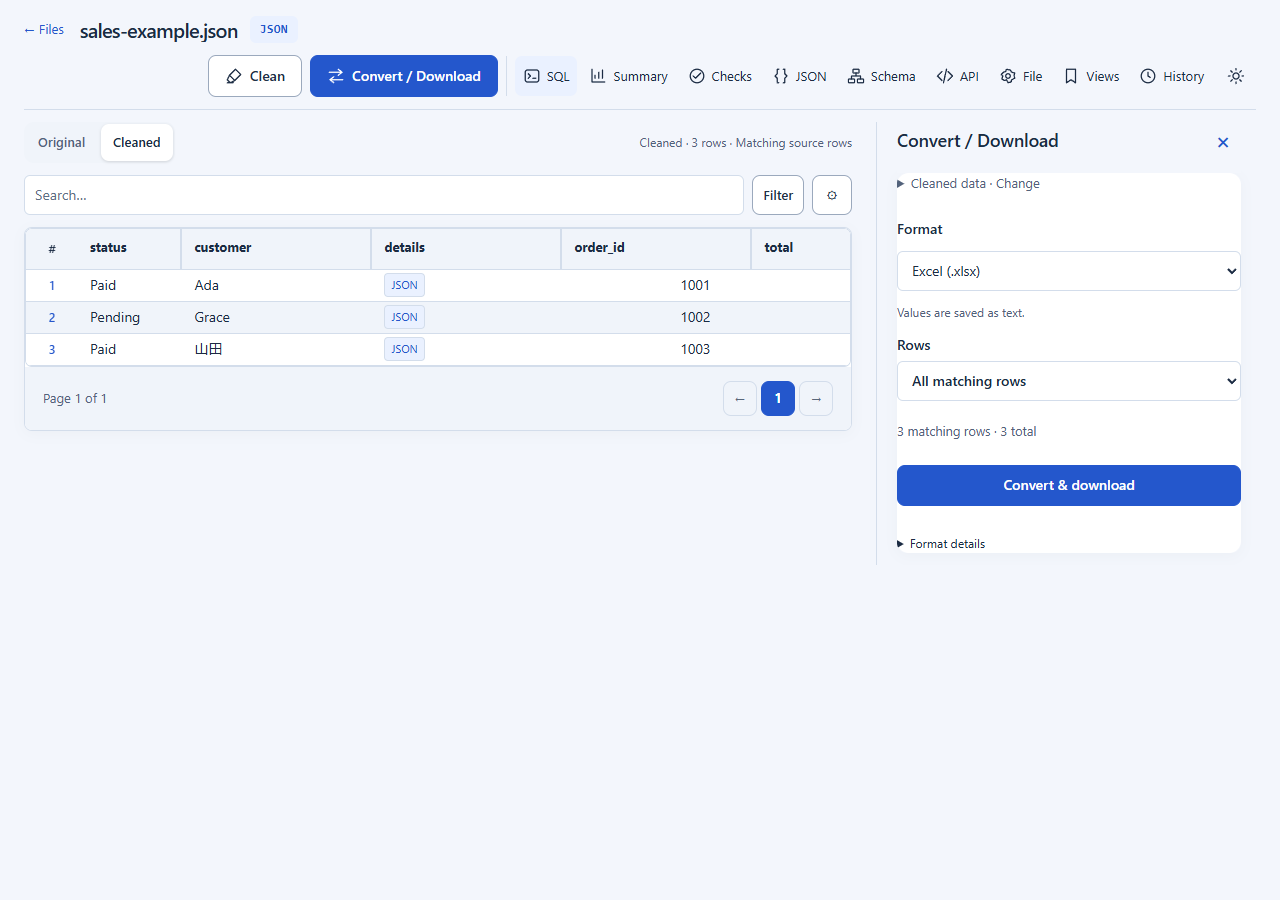
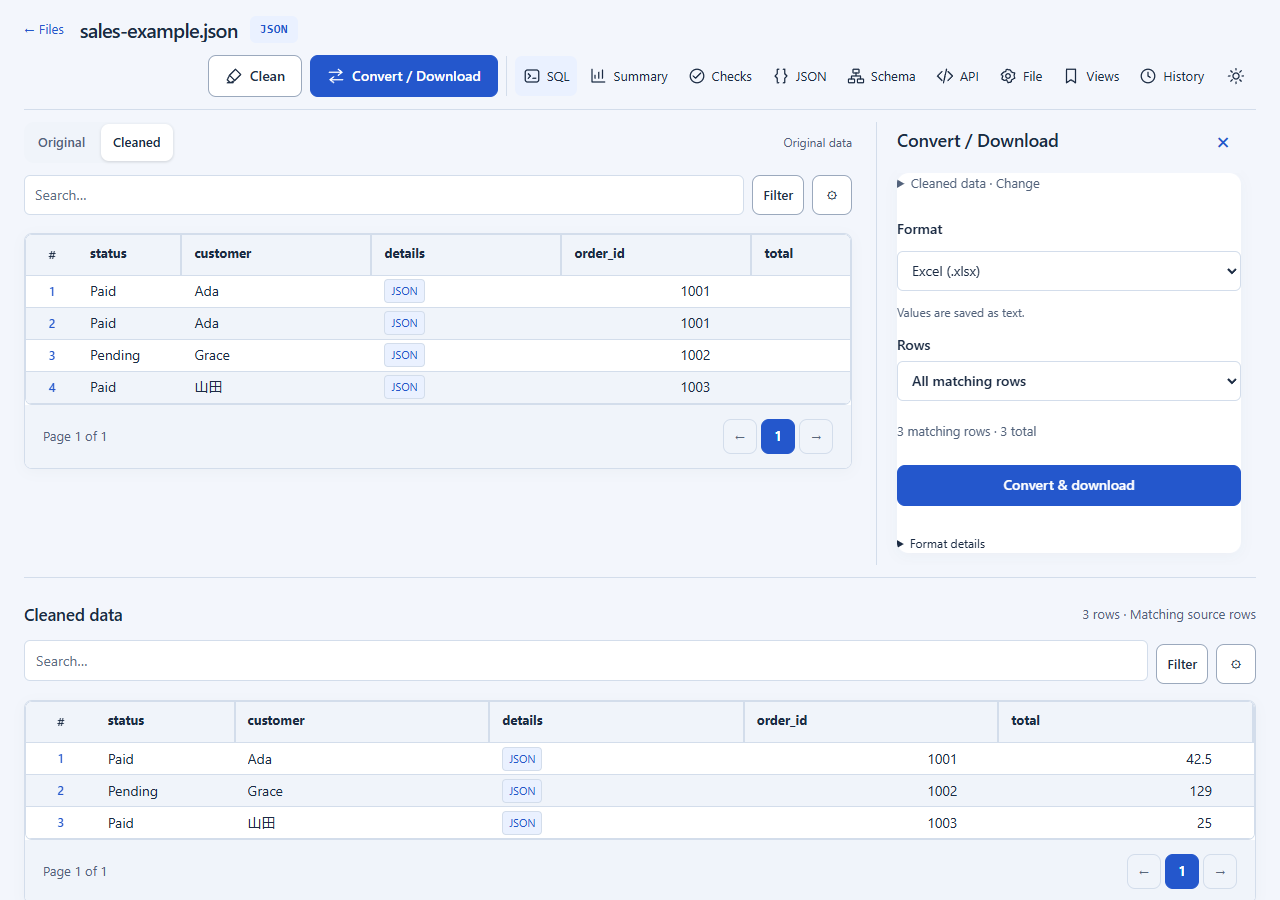
Keep controls in sidebar and show full-width results below original data

diff --git a/ui/static/js/file-workspace.js b/ui/static/js/file-workspace.js
@@ -46,15 +46,15 @@
   finally{preparingRefresh=false;if(prepareAgain){prepareAgain=false;queueMicrotask(refreshPrepared);}}
  }
 
+ const sqlResult=document.getElementById('workspace-sql-result');
  const result=document.getElementById('workspace-result'),caption=document.getElementById('workspace-data-caption');
  let exportChoice,downloadIntent=null;const downloaded=new Set();
  function showData(view){
   if(view==='result'&&!result.firstElementChild)view='original';workspace.dataset.dataView=view;
-  document.getElementById('detail-content').hidden=view==='result';result.hidden=view!=='result';
+  document.getElementById('detail-content').hidden=false;result.hidden=view!=='result';
+  sqlResult.hidden=active!=='sql'||!sqlResult.firstElementChild;
   workspace.querySelectorAll('[data-workspace-view]').forEach(button=>button.setAttribute('aria-pressed',String(button.dataset.workspaceView===view)));
-  const total=result.querySelector('[data-cleaned-total]')?.dataset.cleanedTotal;
-  const scope=result.querySelector('[data-cleaned-scope]')?.dataset.cleanedScope;
-  caption.textContent=view==='result'?(total!==undefined?'Cleaned · '+total+' rows · '+(scope==='entire'?'Entire source':'Matching source rows'):'Quick sample · '+(result.querySelector('[data-preview-count]')?.dataset.previewCount||0)+' rows'):'Original data';
+  caption.textContent='Original data';
   rememberWorkspace();document.dispatchEvent(new CustomEvent('fluxport:data-mounted'));
  }
  function cleanDraft(){
@@ -162,7 +162,10 @@
   host.replaceChildren(entry.node);message('');
   if(active==='clean')syncClean(entry.node);
   if(active==='export')syncExport();
-  if(active==='sql')restoreSQL(entry.node);
+  if(active==='sql'){
+   restoreSQL(entry.node);sqlResult.replaceChildren(...(entry.node.workspaceSQLResult?[entry.node.workspaceSQLResult]:[]));sqlResult.hidden=!sqlResult.firstElementChild;
+   if(sqlResult.firstElementChild){workspace.querySelector('.workspace-data-heading').hidden=false;caption.textContent='Original data';}
+  }else sqlResult.hidden=true;
   window.htmx?.process(entry.node);
   document.dispatchEvent(new CustomEvent('fluxport:tool-mounted',{detail:{tool:active}}));
   updateFormats();deliverDownload();renderDownload();refreshDownload();
@@ -188,6 +191,7 @@
    for(const attr of [...el.attributes])if(attr.name.startsWith('hx-'))el.removeAttribute(attr.name);
   });
   const detail=node.querySelector('#detail-content');if(detail)detail.id='tool-detail-content';
+  const queryResult=node.querySelector('[data-sql-results]');if(queryResult){node.workspaceSQLResult=queryResult;queryResult.remove();}
   const cleanup=node.querySelector('[data-cleanup-form]');
   if(cleanup){
    const reuse=node.querySelector('.reuse-steps');reuse?.remove();
@@ -230,7 +234,7 @@
    const resultKey=toolFor(new URL(response.url))||key;
    const result={node,url:response.url,request:entry.request};cache.set(resultKey,result);
    if(resultKey==='export'&&active!==key){const status=node.querySelector('#collection-download-status');deliverDownload(status);renderDownload(status);refreshDownload();}
-   if(active===key){select(resultKey);mount(result);if(!response.ok)message('Check the highlighted error and try again.',true);else if(options.method==='POST'&&resultKey==='clean'&&result.node.workspacePreview&&matchMedia('(max-width:1000px)').matches)document.getElementById('workspace-result').scrollIntoView({block:'start',behavior:'smooth'});}
+   if(active===key){select(resultKey);mount(result);if(!response.ok)message('Check the highlighted error and try again.',true);else if(options.method==='POST'&&((resultKey==='clean'&&result.node.workspacePreview)||(resultKey==='sql'&&result.node.workspaceSQLResult)))(resultKey==='sql'?sqlResult:document.getElementById('workspace-result')).scrollIntoView({block:'start',behavior:'smooth'});}
   }catch(error){if(active===key){message(error.message||'Unable to load this tool. Try again.',true);const retry=document.createElement('button');retry.type='button';retry.className='button small';retry.textContent='Try again';retry.addEventListener('click',()=>load(key,url,options));notice.append(' ',retry);}}
   finally{pane.removeAttribute('aria-busy');}
  }
@@ -256,7 +260,7 @@
   if(event.button!==0||event.ctrlKey||event.metaKey||event.shiftKey||event.altKey)return;
   const link=event.target.closest('a');
   if(event.target.closest('[data-workspace-edit-clean]')){open('clean',routes.clean,event.target);return;}
-  const view=event.target.closest('[data-workspace-view]');if(view){showData(view.dataset.workspaceView);return;}
+  const view=event.target.closest('[data-workspace-view]');if(view){showData(view.dataset.workspaceView);(view.dataset.workspaceView==='result'?result:document.getElementById('detail-content')).scrollIntoView({block:'start',behavior:'smooth'});return;}
   if(event.target.closest('[data-workspace-download-clean]')){showData('result');open('export',routes.export,event.target);return;}
   if(event.target.closest('[data-close-workspace-tool]')){close();return;}
   if(event.target.closest('[data-refresh-prepared],[data-browse-prepared]')){event.preventDefault();refreshPrepared();return;}

diff --git a/ui/templates/pages/detail.html b/ui/templates/pages/detail.html
@@ -7,7 +7,7 @@
 {{if and (eq .Tab "preview") (ne .Collection.Status "ready")}}<p class="notice">The file is being processed. <a href="/collections/{{.Collection.ID}}/export?original=1">Download the original</a>. Other formats will be available when processing finishes.</p>{{end}}
 {{if eq .Tab "preview"}}<div class="file-workspace-grid"><section class="file-workspace-data" aria-label="Data table"><div class="workspace-data-heading" hidden><div class="workspace-view-switch" role="group" aria-label="Data shown in the table"><button type="button" class="button small" data-workspace-view="original" aria-pressed="true">Original</button><button type="button" class="button small" data-workspace-view="result" aria-pressed="false" hidden>Cleaned</button></div><span class="muted small-text" id="workspace-data-caption"></span></div>{{end}}
 {{if eq .Tab "downloads"}}<section class="panel dataset-downloads"><h2>Convert / Download</h2><details id="download" class="download-control download-inline" open><summary class="sr-only">Download options</summary>{{template "partials/download-chooser" .}}</details></section>{{else}}<div id="detail-content" class="dataset-content {{if ne .Tab "preview"}}panel{{end}}">{{template "partials/detail" .}}</div>{{end}}
-{{if eq .Tab "preview"}}<section id="workspace-result" aria-label="Cleanup result" hidden></section></section><aside class="file-workspace-tool" id="file-workspace-tool" aria-labelledby="workspace-tool-title" hidden><div class="workspace-tool-heading"><div><h2 id="workspace-tool-title" tabindex="-1">Tools</h2></div><button class="button small ghost" type="button" data-close-workspace-tool aria-label="Close tool and return to data">×</button></div><div id="workspace-tool-notice" role="status" aria-live="polite"></div><div id="workspace-tool-content"></div></aside></div>{{end}}
+{{if eq .Tab "preview"}}</section><aside class="file-workspace-tool" id="file-workspace-tool" aria-labelledby="workspace-tool-title" hidden><div class="workspace-tool-heading"><div><h2 id="workspace-tool-title" tabindex="-1">Tools</h2></div><button class="button small ghost" type="button" data-close-workspace-tool aria-label="Close tool and return to data">×</button></div><div id="workspace-tool-notice" role="status" aria-live="polite"></div><div id="workspace-tool-content"></div></aside></div><section id="workspace-result" class="workspace-output" aria-label="Cleanup result" hidden></section><section id="workspace-sql-result" class="workspace-output" aria-label="Query results" hidden></section>{{end}}
 <details class="panel collection-tools tools-disclosure" id="file-settings"><summary>File settings</summary><div class="panel-toolbar"><form method="post" action="/collections/{{.Collection.ID}}/rename" class="inline-form"><input type="hidden" name="csrf" value="{{.CSRF}}"><label for="display-name">Display name</label><input id="display-name" name="name" value="{{.Collection.Name}}" maxlength="120" required><button class="button small">Rename</button></form><form method="post" action="/collections/{{.Collection.ID}}/refresh" hx-post="/collections/{{.Collection.ID}}/refresh" hx-target="#job-activity"><input type="hidden" name="csrf" value="{{.CSRF}}"><button class="button small">Refresh / retry</button></form></div><details><summary>Source details</summary><p class="muted small-text">Filename: {{.Collection.Filename}}</p><p class="muted small-text">Updated: {{.Collection.Updated}}</p></details>
 <form method="post" action="/collections/{{.Collection.ID}}/delete" class="delete-source"><input type="hidden" name="csrf" value="{{.CSRF}}"><label class="checkbox-setting"><input type="checkbox" name="confirm" value="delete" required><span>Permanently delete this source file. This cannot be undone.</span></label><button class="button danger">Delete source file</button></form></details>
 <details class="panel activity-panel tools-disclosure" id="activity"><summary>Processing history</summary><div id="job-activity" hx-get="/jobs?collection={{.Collection.ID}}" hx-trigger="load"></div></details>

diff --git a/ui/templates/pages/sql.html b/ui/templates/pages/sql.html
@@ -8,7 +8,7 @@
 <details><summary>Highlighted query preview</summary><pre id="sql-highlight" class="code-block" aria-label="SQL syntax preview"></pre></details>
 <details><summary>Save or publish this query</summary><div class="inline-form"><label>Name<input name="name" maxlength="100" value="{{.SQL.Name}}" placeholder="For example: Revenue by customer"></label><label class="checkbox-setting"><input type="checkbox" name="published" {{if .SQL.Published}}checked{{end}}> Publish a REST endpoint</label><button class="button" name="action" value="save">Save query</button></div></details>
 </form><details class="quality-notes"><summary>Query limits and engine behavior</summary><p class="muted small-text">Only SELECT and WITH are allowed. Queries use a {{.SQL.DuckDBTimeoutSeconds}}-second DuckDB timeout, a 1,000-row preview and an 8 MiB result limit. Automatic mode selects DuckDB for joins, filters, sorts or aggregates over collections with 250,000+ records; simple queries stay native. First use builds a disk-backed cache. DuckDB spills within the configured memory and temporary storage limits. Use _json for original normalized values. Exports require a complete result.</p></details></section>
-{{if .SQL.Result}}<section class="panel sql-panel"><div class="section-caption"><h2>Results</h2><span>{{.SQL.Result.Engine}} · {{len .SQL.Result.Rows}} rows · {{.SQL.Result.DurationMS}} ms{{if .SQL.Result.Truncated}} · truncated at 1,000{{end}}</span></div><div class="table-scroll record-scroll"><table><thead><tr>{{range .SQL.Result.Columns}}<th>{{.}}</th>{{end}}</tr></thead><tbody>{{range .SQL.Result.Rows}}<tr>{{range .}}<td>{{.}}</td>{{end}}</tr>{{else}}<tr><td>No results.</td></tr>{{end}}</tbody></table></div></section>{{end}}
+{{if .SQL.Result}}<section class="panel sql-panel" data-sql-results><div class="section-caption"><h2>Results</h2><span>{{.SQL.Result.Engine}} · {{len .SQL.Result.Rows}} rows · {{.SQL.Result.DurationMS}} ms{{if .SQL.Result.Truncated}} · truncated at 1,000{{end}}</span></div><div class="table-scroll record-scroll"><table><thead><tr>{{range .SQL.Result.Columns}}<th>{{.}}</th>{{end}}</tr></thead><tbody>{{range .SQL.Result.Rows}}<tr>{{range .}}<td>{{.}}</td>{{end}}</tr>{{else}}<tr><td>No results.</td></tr>{{end}}</tbody></table></div><details class="sql-result-query"><summary>Query used</summary><pre class="code-block">{{.SQL.Text}}</pre></details></section>{{end}}
 <details class="panel sql-panel tools-disclosure"><summary>Table names and columns</summary><p class="muted">Use the table identifiers below. For nested objects, use json_extract(account, '$.region'). Quote identifiers that contain spaces or dots.</p>{{range .SQL.DatasetTables}}<details><summary>{{.Name}}</summary><code>{{.Table}}</code><p class="mono">{{range .Fields}}{{.}} · {{end}}</p></details>{{end}}</details>
 <details class="panel sql-panel tools-disclosure"><summary>Saved queries</summary>{{range .SQL.Saved}}<div class="panel-toolbar"><a href="{{if $.Collection.ID}}/collections/{{$.Collection.ID}}/sql{{else}}/sql{{end}}?saved={{.ID}}">{{.Name}}</a>{{if .Published}}<code>/api/queries/{{.ID}}</code>{{end}}<form method="post" action="/sql/{{.ID}}/delete"><input type="hidden" name="csrf" value="{{$.CSRF}}">{{if $.Collection.ID}}<input type="hidden" name="collection" value="{{$.Collection.ID}}">{{end}}<button class="button small danger">Delete</button></form></div>{{else}}<p class="muted">Save a query to reuse it or expose it through the API.</p>{{end}}</details>
 <details class="panel sql-panel tools-disclosure"><summary>Recent queries</summary>{{range .SQL.History}}<details><summary>{{.Created}} · {{.DurationMS}} ms{{if .Error}} · failed{{end}}</summary><pre class="code-block">{{.SQL}}</pre>{{if .Error}}<p class="notice error">{{.Error}}</p>{{end}}</details>{{else}}<p class="muted">Queries you run here appear in this history.</p>{{end}}</details>

diff --git a/scripts/file-workspace-checks.js b/scripts/file-workspace-checks.js
@@ -40,7 +40,9 @@ async (page, artifactDir) => {
   if(!aligned)throw Error('Cleanup inputs and action button are not aligned');
   if(!await pane.getByText('Trim spaces in name',{exact:true}).count())throw Error('Cleanup not retained');
   const preview=page.locator('#workspace-result');
-  if(await source.isVisible()||await preview.locator('tbody tr').count()!==20)throw Error('Cleanup must show one result sample table');
+  if(!await source.isVisible())throw Error('Cleanup hides the original table');
+  const sourceBox=await source.boundingBox(),resultBox=await preview.boundingBox(),workspaceBox=await page.locator('[data-file-workspace]').boundingBox();
+  if(resultBox.y<sourceBox.y+sourceBox.height||resultBox.width<workspaceBox.width-2)throw Error('Cleanup results must be full-width below the original table');
   await preview.locator('.sheet-data').waitFor();await preview.getByRole('button',{name:'Inspect JSON in nested',exact:true}).first().click();
   if(await preview.getByLabel('Complete record JSON',{exact:true}).inputValue()!=='{"enabled":true}')throw Error('Cleaned JSON inspector changed the value');
   await preview.getByRole('button',{name:'Close record',exact:true}).click();
@@ -58,8 +60,13 @@ async (page, artifactDir) => {
   await openMore();await page.locator('[data-workspace-target=sql]').click();
   const sql=pane.locator('#sql-editor');await sql.fill('SELECT COUNT(*) AS total FROM "c_'+id+'"');
   await pane.getByRole('button',{name:'Run query',exact:true}).click();
-  await pane.getByRole('heading',{name:'Results',exact:true}).waitFor();
-  await pane.getByRole('cell',{name:'60',exact:true}).waitFor();
+  const sqlResults=page.locator('#workspace-sql-result');
+  await sqlResults.getByRole('heading',{name:'Results',exact:true}).waitFor();
+  await sqlResults.getByRole('cell',{name:'60',exact:true}).waitFor();
+  if(await pane.locator('[data-sql-results]').count()||!await source.isVisible())throw Error('SQL results are inside the sidebar or hide the source');
+  const sqlBox=await sqlResults.boundingBox(),originalBox=await source.boundingBox(),fullBox=await page.locator('[data-file-workspace]').boundingBox();
+  if(sqlBox.y<originalBox.y+originalBox.height||sqlBox.width<fullBox.width-2)throw Error('SQL results must be full-width below the original table');
+  for(const width of [390,1440]){await page.setViewportSize({width,height:1000});if(await page.evaluate(()=>document.documentElement.scrollWidth>innerWidth+1))throw Error('SQL results overflow at '+width);const box=await sqlResults.boundingBox(),main=await page.locator('[data-file-workspace]').boundingBox();if(box.width<main.width-2)throw Error('SQL result table is narrow at '+width);}
   await sql.fill('SELECT id FROM "c_'+id+'" LIMIT 3');
   await page.locator('[data-workspace-target=clean]').click();
   await page.locator('#workspace-result:not([hidden]) tbody tr').first().waitFor();
@@ -73,6 +80,7 @@ async (page, artifactDir) => {
   await sql.fill('SELECT invalid_column FROM "c_'+id+'"');
   await pane.getByRole('button',{name:'Run query',exact:true}).click();
   await pane.getByRole('alert').waitFor();
+  if(await page.locator('#workspace-sql-result').isVisible())throw Error('Failed query still shows stale results');
   if(!(await sql.inputValue()).includes('invalid_column'))throw Error('SQL lost after error');
   await page.locator('[data-workspace-target=export]').click();await pane.locator('#collection-download-format').selectOption('json');
   const delayed='**/collections/'+id+'/export';await page.route(delayed,async route=>{const response=await route.fetch();await page.waitForTimeout(500);await route.fulfill({response});});

diff --git a/ui/static/js/workbench.js b/ui/static/js/workbench.js
@@ -1,7 +1,7 @@
 (() => {
  document.addEventListener('change',event=>{if(event.target.matches('[data-show-types]'))document.querySelector('[data-file-workspace]')?.classList.toggle('show-column-types',event.target.checked);});
   'use strict';
-	let dataListeners;
+	const dataListeners=new WeakMap();
 	function initialize(){
 	const sqlEditor=document.getElementById('sql-editor');
 	if(sqlEditor&&!sqlEditor.dataset.initialized){
@@ -14,11 +14,15 @@
 		sqlEditor.form.elements.name.addEventListener('input',()=>sqlEditor.form.elements.name.setCustomValidity(''));
 	}
   const workspace=document.querySelector('[data-file-workspace]');
-  const root=workspace?(workspace.dataset.dataView==='result'?document.getElementById('workspace-result'):document.getElementById('detail-content')):document;
+  const roots=workspace?[document.getElementById('detail-content'),document.getElementById('workspace-result')]:[document];
+  roots.forEach(initializeTable);
+ }
+ function initializeTable(root){
+  if(!root)return;
   const queryForm = root.querySelector('[data-sheet-query]');
   if (!queryForm||queryForm.dataset.initialized) return;
   queryForm.dataset.initialized='true';
-  dataListeners?.abort();dataListeners=new AbortController();
+  dataListeners.get(root)?.abort();const listeners=new AbortController();dataListeners.set(root,listeners);
   const filters = queryForm.querySelector('[data-filter-list]');
   const sorts = queryForm.querySelector('[data-sort-list]');
   const operators = [['eq','equals'],['neq','does not equal'],['contains','contains'],['starts','starts with'],['gt','greater than'],['gte','at least'],['lt','less than'],['lte','at most'],['null','missing / null'],['notnull','has a value']];
@@ -52,7 +56,7 @@
 	if(window.EventSource){
 		const initial=sheet.dataset.sourceGeneration||edit.elements.generation.value,initialState=sheet.dataset.sourceStatus;let checking=false;
 		async function check(){if(checking)return;checking=true;try{const response=await fetch('/collections/'+sheet.dataset.collection+'/workbench/status');if(!response.ok)return;const state=await response.json();if(state.status!==initialState&&initialState!=='ready'){location.reload();return;}if(state.status==='ready'&&state.generation!==initial){if(!initial){location.reload();return;}if(!document.querySelector('[data-source-changed]')){const notice=document.createElement('div');notice.className='notice';notice.dataset.sourceChanged='';notice.append(document.createTextNode('The source changed. Reload before editing. '));const link=document.createElement('a');link.href=location.href;link.textContent='Reload records';notice.append(link);document.querySelector('main').prepend(notice);}}}catch{}finally{checking=false;}}
-		window.addEventListener('fluxport:progress',event=>{const message=event.detail;if(message.connected){check();return;}if((message.resource===sheet.dataset.collection||message.resource==='*')&&['ready','failed','cancelled','changed'].includes(message.state))check();},{signal:dataListeners.signal});
+		window.addEventListener('fluxport:progress',event=>{const message=event.detail;if(message.connected){check();return;}if((message.resource===sheet.dataset.collection||message.resource==='*')&&['ready','failed','cancelled','changed'].includes(message.state))check();},{signal:listeners.signal});
 	}
   const boxes=()=>Array.from(edit.querySelectorAll('[name=record_id]:not(:disabled)'));
   function count(){const n=boxes().filter(b=>b.checked).length;const text=edit.querySelector('[data-selection-count]');if(text)text.textContent=n+' records selected';}

diff --git a/ui/static/css/file-workspace.css b/ui/static/css/file-workspace.css
@@ -158,3 +158,17 @@ body:has([data-file-workspace]) .breadcrumbs>span,body:has([data-file-workspace]
 .download-row-scope{display:block;margin:.7rem 0 0}
 .download-row-scope select{margin:0}
 .download-chooser [data-download-count]{margin:.5rem 0;color:var(--muted);font-size:.8rem}
+
+/* Controls stay beside the source; output tables span the workspace below it. */
+[data-file-workspace] .workspace-output{min-width:0;margin-top:24px;padding-top:20px;border-top:1px solid var(--border);scroll-margin-top:calc(var(--workspace-header-height,100px) + 16px)}
+[data-file-workspace] .workspace-output[hidden]{display:none!important}
+#workspace-sql-result .sql-panel{margin:0;padding:0;border:0;background:transparent;max-width:none}
+#workspace-sql-result .section-caption{display:flex;align-items:center;justify-content:space-between;gap:12px;flex-wrap:wrap;margin-bottom:12px}
+#workspace-sql-result h2{margin:0;font-size:17px}
+#workspace-sql-result .section-caption>span{font-size:12px;color:var(--muted)}
+#workspace-sql-result .record-scroll{max-height:560px;border:1px solid var(--border);border-radius:10px}
+[data-file-workspace] #detail-content{scroll-margin-top:calc(var(--workspace-header-height,100px) + 16px)}
+
+[data-file-workspace] #workspace-result .cleaned-context{display:flex;align-items:center;justify-content:space-between;gap:12px;flex-wrap:wrap;margin-bottom:12px}
+#workspace-result .cleaned-context h2{margin:0;font-size:17px}
+[data-file-workspace] .workspace-output .workspace-shortcuts{display:none}

diff --git a/ui/templates/partials/prepared-result.html b/ui/templates/partials/prepared-result.html
@@ -1,4 +1,4 @@
 <section data-cleaned-dataset="{{.ResultID}}" {{if .Workbench}}data-cleaned-total="{{.Workbench.DatasetRows}}" data-cleaned-scope="{{if .Prepared.InputQuery}}matching{{else}}entire{{end}}"{{end}}>
 {{template "partials/prepared-status" .}}
-{{if .Workbench}}<div class="cleaned-context muted small-text">Cleaned data · {{.Workbench.DatasetRows}} rows · {{if .Prepared.InputQuery}}Captured matching source rows{{else}}Entire source file{{end}}</div>{{template "partials/dataset-data" .}}{{end}}
+{{if .Workbench}}<div class="cleaned-context"><h2>Cleaned data</h2><span class="muted small-text">{{.Workbench.DatasetRows}} rows · {{if .Prepared.InputQuery}}Matching source rows{{else}}Entire source file{{end}}</span></div>{{template "partials/dataset-data" .}}{{end}}
 </section>

diff --git a/README.md b/README.md
@@ -4,7 +4,7 @@
 
 FluxPort is a self-hosted workspace for CSV, JSON, Excel, Parquet, YAML, XML, NDJSON and TOML. Open a file, inspect its rows, remove duplicates or fix values, and download the result. Developers can reuse saved steps, query datasets with DuckDB, automate work from the CLI and publish REST endpoints.
 
-[Try the demo](https://fluxport.ppxl.dev) · [Download 0.3.12](https://github.com/PhantomPixelDev/FluxPort/releases/tag/v0.3.12) · [Documentation](docs/reference.md) · [Report a bug](https://github.com/PhantomPixelDev/FluxPort/issues/new/choose)
+[Try the demo](https://fluxport.ppxl.dev) · [Download 0.3.13](https://github.com/PhantomPixelDev/FluxPort/releases/tag/v0.3.13) · [Documentation](docs/reference.md) · [Report a bug](https://github.com/PhantomPixelDev/FluxPort/issues/new/choose)
 
 [![Checks](https://github.com/PhantomPixelDev/FluxPort/actions/workflows/checks.yml/badge.svg?branch=main)](https://github.com/PhantomPixelDev/FluxPort/actions/workflows/checks.yml) · [MIT license](LICENSE)
 
@@ -16,32 +16,32 @@ The file page starts with one table and two main actions: **Clean** and **Conver
 
 1. **Open:** choose **Add files**, or **Try an example** to load small synthetic datasets.
 2. **Explore:** search and filter rows, sort columns, resize or hide fields, and inspect complete values. Compact and Comfortable densities suit different screens.
-3. **Clean:** remove duplicates, trim spaces, fill empty values, rename columns or sort. Cleanup captures all matching source rows across every page, including the current sort. A quick sample appears while the complete, paginated **Cleaned** result is prepared. Later filters browse the result without changing the captured input.
+3. **Clean:** remove duplicates, trim spaces, fill empty values, rename columns or sort. Cleanup captures all matching source rows across every page, including the current sort. Results appear in a full-width table below the original. A quick sample appears while the complete, paginated **Cleaned** result is prepared. Later filters browse the result without changing the captured input.
 4. **Convert / Download:** choose a format and click once. Download defaults to the data you are viewing; **Change** lets you pick the original or saved cleanup. Downloads include all matching rows of the displayed dataset, in order; **Original file** always preserves the complete source bytes. Prepared cleanup is reused, with progress, cancellation and retry in the same panel. Saving cleanup steps is optional.
 
 Cleanup prepares a separate, read-only result and preserves your source. Cleanup drafts retain their input scope; the same browser tab also restores SQL text, engine choice and view state after reload, without running restored SQL. Source editing is explicitly enabled separately. Use **Clean → Advanced → Save these steps** to reuse a cleanup sequence. Downloads use meaningful names such as `orders.xlsx` or `orders-cleaned.json`. See the [dataset workspace walkthrough](docs/dataset-workspace.md).
 
 | Make changes | Download the result |
 | --- | --- |
-| ![Clean data: one result table with an original/result switch and a compact step editor](docs/images/changes.png) | ![Download: one ready file after automatic preparation](docs/images/downloads.png) |
+| ![Clean data: full-width results below the original and controls beside the source](docs/images/changes.png) | ![Download: one ready file after automatic preparation](docs/images/downloads.png) |
 
 The online demo is a shared public workspace. Install your own instance for private data. Normal installations load examples only when requested.
 
 ## Get started
 
-Download a verified executable and [checksums](https://github.com/PhantomPixelDev/FluxPort/releases/download/v0.3.12/SHA256SUMS):
+Download a verified executable and [checksums](https://github.com/PhantomPixelDev/FluxPort/releases/download/v0.3.13/SHA256SUMS):
 
 | Platform | Download | Start |
 | --- | --- | --- |
-| Windows amd64 | [fluxport-windows-amd64.exe](https://github.com/PhantomPixelDev/FluxPort/releases/download/v0.3.12/fluxport-windows-amd64.exe) | `./fluxport-windows-amd64.exe serve` |
-| Linux amd64 | [fluxport-linux-amd64](https://github.com/PhantomPixelDev/FluxPort/releases/download/v0.3.12/fluxport-linux-amd64) | `chmod +x fluxport-linux-amd64 && ./fluxport-linux-amd64 serve` |
+| Windows amd64 | [fluxport-windows-amd64.exe](https://github.com/PhantomPixelDev/FluxPort/releases/download/v0.3.13/fluxport-windows-amd64.exe) | `./fluxport-windows-amd64.exe serve` |
+| Linux amd64 | [fluxport-linux-amd64](https://github.com/PhantomPixelDev/FluxPort/releases/download/v0.3.13/fluxport-linux-amd64) | `chmod +x fluxport-linux-amd64 && ./fluxport-linux-amd64 serve` |
 
 Open **http://127.0.0.1:8080**. The executable includes the UI and DuckDB; it needs no Go compiler, Node.js runtime or external database. Linux binaries are built on Debian 12 and require the system C/C++ runtime (`libstdc++6`); release smoke checks run on Ubuntu 24.04. Windows binaries use the standard Windows runtime.
 
 For Docker, clone this repository and run:
 
 ```sh
-docker compose build --build-arg VERSION=0.3.12
+docker compose build --build-arg VERSION=0.3.13
 docker compose up -d
 ```
 

diff --git a/docs/dataset-workspace.md b/docs/dataset-workspace.md
@@ -1,6 +1,6 @@
 # Open a file, make changes, download the result
 
-Opening a file keeps you in one workspace. The table, **Clean** and **Convert / Download** share the same collection page. Desktop displays SQL and all other tools in the toolbar; mobile keeps them under **⋯ More**. Icons and accessible names identify each tool. On desktop, tools open beside the main table; on smaller screens they open below it. Switching tools and reloading the same browser tab retain view state and SQL text/engine choice. Restored SQL never runs automatically. Cleanup drafts also retain their captured input scope and flag source changes. **×** or Escape returns to the full-width table. Save steps or queries to share or reuse them.
+Opening a file keeps you in one workspace. The table, **Clean** and **Convert / Download** share the same collection page. Desktop displays SQL and all other tools in the toolbar; mobile keeps them under **⋯ More**. Icons and accessible names identify each tool. On desktop, controls open beside the original table; on smaller screens they open below it. Cleanup and SQL results span the full workspace below the original table. Switching tools and reloading the same browser tab retain view state and SQL text/engine choice. Restored SQL never runs automatically. Cleanup drafts also retain their captured input scope and flag source changes. **×** or Escape returns to the full-width table. Save steps or queries to share or reuse them.
 
 The SQL panel starts with this file selected, and its saved queries and history belong to this file. Summaries, validation, raw JSON, schema and API settings are in the desktop toolbar or **⋯ More** on mobile. File settings, processing history and saved views are there too. **Files** returns to the file list. Native links and forms remain available when JavaScript is disabled.
 
@@ -28,7 +28,7 @@ Choose a change and a column, then **Apply**. Choose **All columns** for Remove 
 
 **Input → Matching rows** captures all matching source rows, across every page, in the current sort order. **Entire file** includes the full source. This captured input stays fixed when you add more steps or filter the Cleaned table. **Update input** explicitly recaptures the current Original view and regenerates the result.
 
-**Original** shows the source. **Cleaned** initially shows a labeled quick sample of up to 20 rows while a background job prepares the full result. Once ready, use the same search, filters, sorting, column controls, inspector and numbered pagination on every cleaned row. Exact counts appear when preparation completes. Cleaned data stays read-only, and column choices follow renamed/output fields. A sample is neither a total nor a positional comparison after sorting/deduplication. On mobile, **Back to changes** returns from the sample to the controls. **Undo**, **× Remove** and **Advanced → Reset** edit the sequence without modifying the source.
+The original table stays visible. **Original** and **Cleaned** jump to the selected dataset; downloads follow that selection. **Cleaned** initially shows a labeled quick sample of up to 20 rows while a background job prepares the full result. Once ready, use the same search, filters, sorting, column controls, inspector and numbered pagination on every cleaned row. Exact counts appear when preparation completes. Cleaned data stays read-only, and column choices follow renamed/output fields. A sample is neither a total nor a positional comparison after sorting/deduplication. On mobile, **Back to changes** returns from the sample to the controls. **Undo**, **× Remove** and **Advanced → Reset** edit the sequence without modifying the source.
 
 **Advanced → Save these steps** stores the sequence using the existing pipeline service. Saved names are shared across the instance; a name belonging to another dataset is rejected rather than replaced. Saved steps can be reopened from the dataset or the sidebar. The full editor remains available for joins, calculations, validation, revisions and schedules.
 
